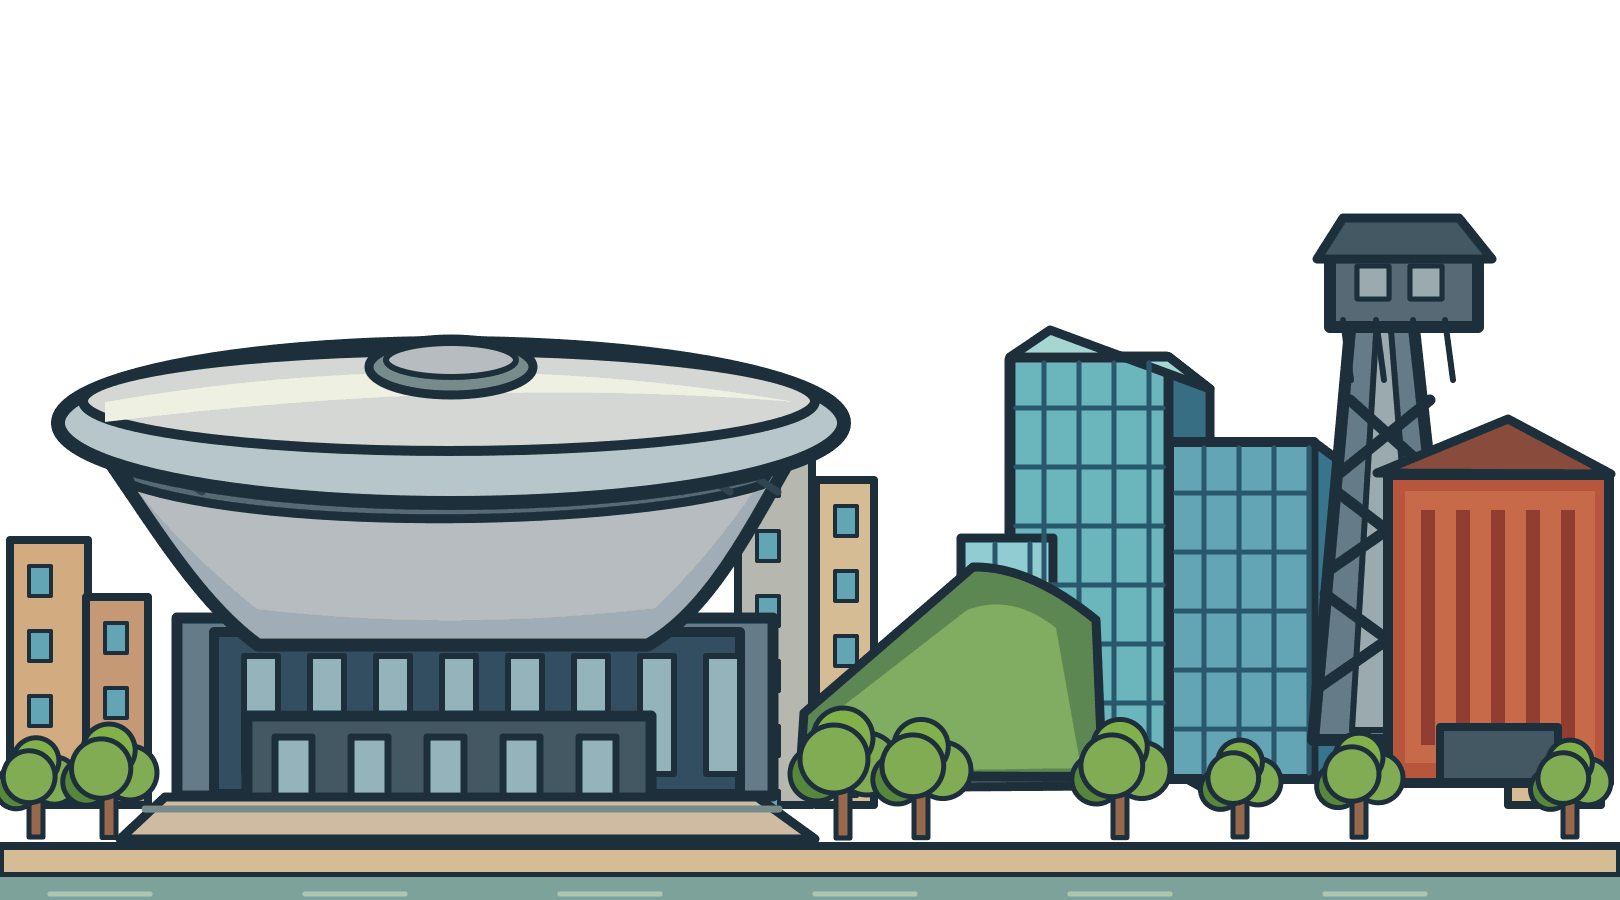
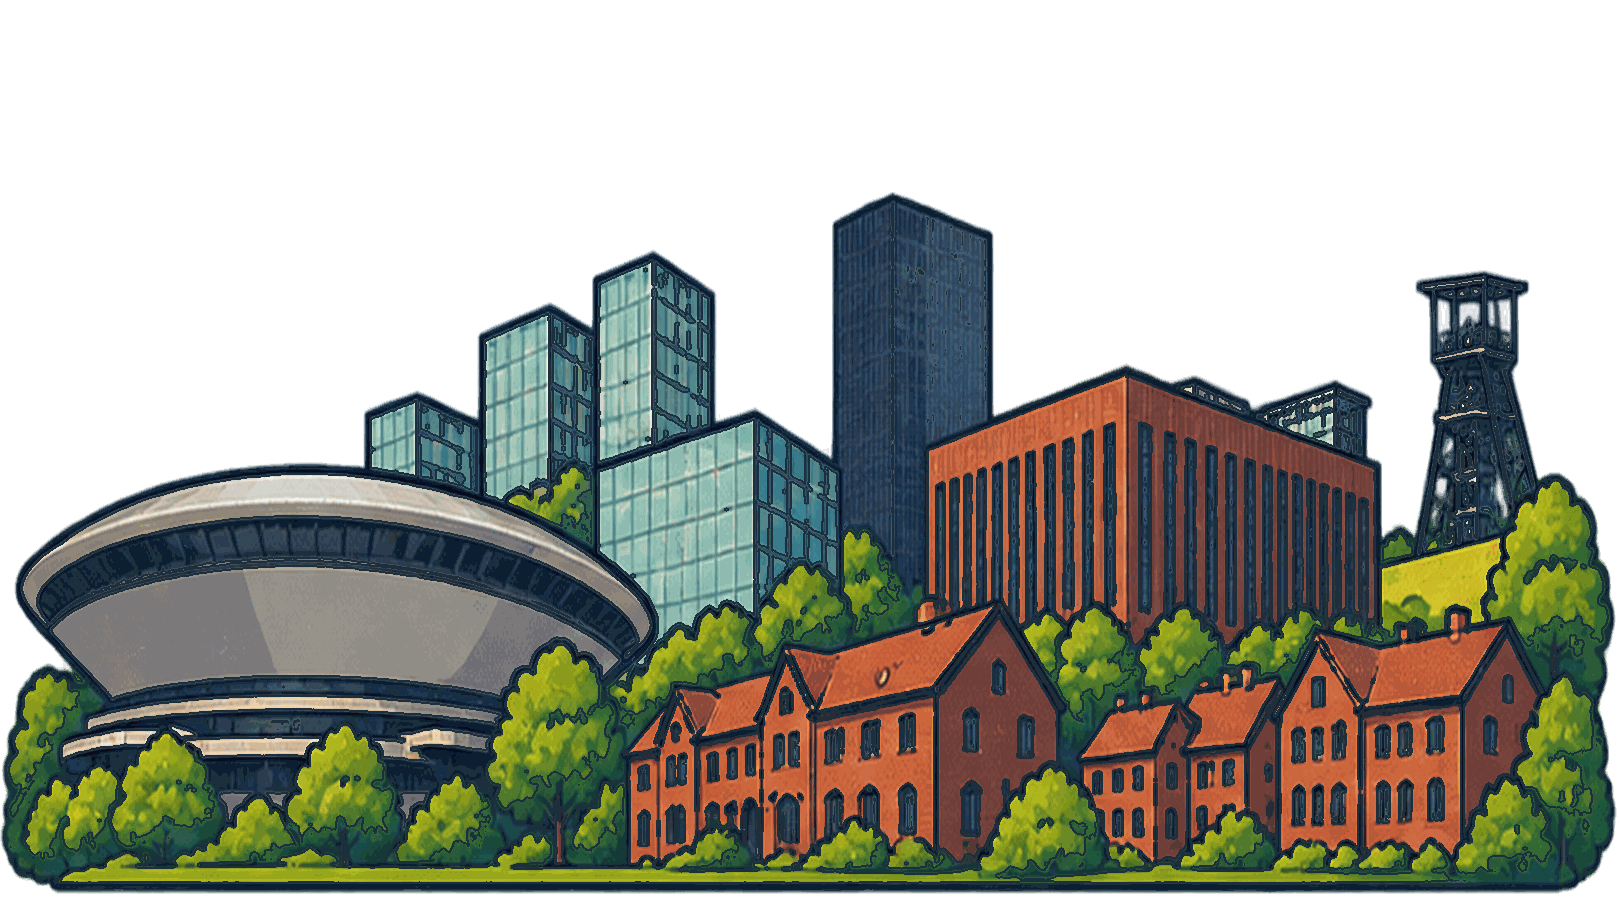
Runda 7, zlecenie 101: panoramy A+ (PNG 256 kolorów, ASSETS)
Claude-Session: https://claude.ai/code/session_01GfKv6HpRFHiwHaFvzS3hrY

diff --git a/public/assets/landmarks/ASSETS.md b/public/assets/landmarks/ASSETS.md
@@ -1671,3 +1671,67 @@ Dla przejrzystości zapisano opis źródłowy generacji (język angielski), z kt
 1. Czy po obejrzeniu w rendererze przy rozmiarze ok. 324×180 px interpolacja pozostaje akceptowalna, czy potrzebny jest nowy natywny rendering dla każdego miasta?
 2. Czy w przypadku Poniewieża priorytetem powinna być wierna sylwetka dwuwieżowego kościoła św. Piotra i Pawła wraz z Senvagė (kosztem miejskiego mostu)?
 3. Czy uproszczona rezydencja zamkowa Bauski jest wystarczająco rozpoznawalna dla mieszkańca, czy wymaga pokazania zburzonej części fortecy?
+
+
+<!-- Zlecenie 101 (runda 7) z ZIP-a GPT; PNG skwantyzowane do 256 kolorów przez koordynatora. -->
+
+# Zlecenie 101 — panoramy miast A+
+
+- **Data wygenerowania i obróbki:** 2026-10-31.
+- **Format wyjściowy:** PNG, 1620 × 900 px, RGBA, profil sRGB, przezroczyste niebo, linia gruntu/wody przy dolnej krawędzi.
+- **Autor/narzędzia:** generowanie wbudowanym generatorem obrazów ChatGPT (GPT Image); obróbka techniczna w Pythonie (Pillow i OpenCV): wyodrębnienie sylwetek z arkusza, usunięcie podpisów i tła, skalowanie do 1620 × 900, wzmocnienie ciemnogranatowych konturów, spłaszczenie barw, profil sRGB.
+- **Prawa/licencja:** oryginalne materiały generowane AI na zamówienie projektu. Użycie, także komercyjne, przez właściciela projektu na warunkach ChatGPT/OpenAI. Nie użyto ani nie włączono żadnej cudzej fotografii, tekstury ani logotypu. Ochrona prawnoautorska elementów tworzonych wyłącznie przez AI zależy od właściwego prawa — nie należy twierdzić, że jest automatycznie gwarantowana. Budynki są interpretacją graficzną, a nie odwzorowaniem fotografii.
+
+## Inwentarz
+
+| Plik | Miasto | Główne obiekty (od lewej) | Punkt widzenia / zgodność geograficzna | Narzędzie / źródło | Licencja / prawa |
+|---|---|---|---|---|---|
+| `mariampol.png` | Mariampol (Marijampolė, Litwa) | neobarokowa bazylika św. Michała Archanioła (dwie białe wieże); park i niska zabudowa; stylizowany zabytkowy dworzec kolejowy z ceglanym korpusem i wysoką wieżą | **Umowny montaż** centrum i dworca (nie jeden rzeczywisty punkt obserwacji); zaakcentowana zielona zabudowa miejska | ChatGPT GPT Image, scena indywidualna; Pillow/OpenCV | Wygenerowane w ChatGPT; możliwość użycia w projekcie, z zastrzeżeniami powyżej |
+| `oslo.png` | Oslo (Norwegia) | ratusz Oslo Rådhus z dwiema ceglanymi wieżami; twierdza Akershus na wzniesieniu; biały ukośny dach Opery nad wodą | **Widok poglądowy od Oslofjordu ku północy**; położenie zachód → wschód: ratusz – Akershus – opera. Budynki celowo zwiększone dla czytelności | ChatGPT GPT Image, wyodrębnione z atlasu czterech miast, odbicie poziome, Pillow/OpenCV | Wygenerowane w ChatGPT; architekturę Norwegii wolno obrazować (§ 31 åndsverkloven) |
+| `krakow.png` | Kraków (Polska) | Wawel na wzgórzu, zespół sukiennic z arkadami, bazylika Mariacka z nierównymi wieżami | **Kompozycja ikonograficzna**, nie autentyczny widok z jednej ulicy: Wawel i Rynek Główny nie mogą w rzeczywistym ujęciu mieć jednocześnie takich rozmiarów | ChatGPT GPT Image, wyodrębnione z atlasu czterech miast; Pillow/OpenCV | Wygenerowane w ChatGPT; zabytki i panorama miejska |
+| `katowice.png` | Katowice (Polska) | hala Spodek, przeszklone bryły nawiązujące do Muzeum Śląskiego, czerwonoceglasty NOSPR, familoki Nikiszowca; dodatkowo sylweta wieży szybowej | **Kolaż Strefy Kultury i Nikiszowca**, nie jeden rzeczywisty widok: Nikiszowiec jest oddzielony od centrum; przesadne gabaryty przeszkleń dla czytelności w grze | ChatGPT GPT Image, wyodrębnione z atlasu czterech miast; Pillow/OpenCV | Wygenerowane w ChatGPT; budynki stale dostępne publicznie: uwaga na art. 33 pkt 1 polskiej ustawy o prawie autorskim |
+
+**Podgląd:** `docs/art/podglady/panoramy-101.png` — arkusz 2 × 2, jasnoniebieskie tło, podpisy poza samymi panoramami.
+
+## Prompty źródłowe
+
+### Mariampol — osobna generacja
+
+> A panoramic flat-vector sticker illustration on a transparent background, featuring a straight-on townscape with bold dark outlines and no people or text: a white twin-spired baroque cathedral anchors the left, a tree-filled park with benches, lamps, paths, and low cream/blue buildings spans the center, and a red-brick historic civic building with a tall terracotta-roofed tower stands on the right. The foreground combines green lawns, shrubs, and a pale paved edge, while simplified solid colors, subtle shading, arched windows, decorative façades, greenery, and clean graphic shapes create a crisp cartoon-like skyline.
+
+W obróbce dopasowano budynek po prawej do roli **stylizowanego dworca** (charakterystyczny materiał i wieża), choć generator określał go jako budynek publiczny. To **interpretacja**, a nie precyzyjny rysunek elewacji dworca.
+
+### Kraków i Katowice — wspólna generacja arkusza
+
+> A playful flat-vector collage on a light-blue background presents four postcard-style city skylines in a neat two-by-two grid, each rendered with bold outlines, vivid colors, crisp shading, greenery, and a centered dark sans-serif city label beneath it. The scenes feature Mariampol’s neoclassical churches and civic tower, Oslo’s waterfront landmarks and fortress, Kraków’s castle, cloth hall, and twin-towered church, and Katowice’s Spodek, modern towers, industrial structures, and brick neighborhoods—without people or extra text.
+
+Obie miejskie sylwetki wyodrębniono z arkusza algorytmem komponentów spójnych. Podpisy nie zostały przeniesione do PNG gry.
+
+### Oslo — wspólna generacja arkusza, alternatywna kompozycja
+
+> A crisp flat-vector panorama sheet presents four transparent-background city skyline cutouts—Mariampol, Oslo, Kraków, and Katowice—in a two-by-two layout, using bold dark outlines, vibrant colors, simplified architecture, greenery, and water; each scene highlights its signature landmarks, from Mariampol’s churches and riverside townscape to Oslo’s opera house and fortress, Kraków’s basilica, Cloth Hall, and Wawel Castle, and Katowice’s Spodek, modern cultural buildings, industrial tower, and brick workers’ homes. A light-blue footer contains miniature previews labeled “Mariampol,” “Oslo,” “Kraków,” and “Katowice,” creating a polished collection of game-ready skyline stickers with no people.
+
+Użyto odbicia poziomego wyizolowanej sylwetki Oslo w celu poprawnej kolejności geograficznej: ratusz – Akershus – opera. Nie jest to kopia ani przeróbka zdjęcia.
+
+## Referencje faktograficzne (bez użycia plików zewnętrznych w grafice)
+
+- Mariampol: oficjalny portal turystyczny, [bazylika](https://marijampoletic.lt/en/places-to-visit/architectural-values/basilica-of-saint-michael-the-archangel-in-marijampole/), [dworzec](https://marijampoletic.lt/en/places-to-visit/architectural-values/railway-station/) i [lista architektury](https://marijampoletic.lt/lankytinos-vietos/architekturos-vertybes/).
+- Oslo: oficjalny [VisitOSLO — atrakcje](https://www.visitoslo.com/en/activities-and-attractions/10-suggestions/top-attractions/); norweska ustawa [åndsverkloven, § 31](https://lovdata.no/nav/lov/2018-06-15-40/kapI/%C2%A730) (zwłaszcza: *Byggverk kan fritt avbildes*).
+- Kraków: [Kraków — Stare Miasto](https://convention.krakow.pl/getHtml?dok_id=39903) i [Kościół Mariacki](https://www.krakow.pl/getHtml?dok_id=11175).
+- Katowice: [Strefa Kultury — Śląskie.travel](https://www.slaskie.travel/poi/509072/the-space-of-culture-in-katowice), [Strefa Kultury — Spodek](https://www.spodekkatowice.pl/pl/strefa-kultury/24/), [Nikiszowiec](https://www.metropolia.slaskie.travel/culturalheritage/1715/osiedle-nikiszowiec). Polska [ustawa o prawie autorskim — art. 33](https://eli.gov.pl/api/acts/DU/2021/1062/text.html) (przy komercyjnym wykorzystaniu ostateczna kwalifikacja prawna zależy od okoliczności).
+
+## Kontrola i integracja
+
+- [x] Cztery oddzielne obrazy `.png`, 1620 × 900, RGBA, sRGB, bez tła nieba.
+- [x] Kontur ciemny, wzmocniony na zewnętrznych i wewnętrznych krawędziach; czytelność po zmniejszeniu i skala najważniejszych budowli sprawdzone wizualnie w arkuszu.
+- [x] Brak tekstów i logotypów w obrazach produkcyjnych; podpisy tylko na arkuszu podglądowym.
+- [x] Arkusz podglądów i niniejsza dokumentacja.
+- [ ] Weryfikacja w **docelowym kadrze silnika gry** — do przeprowadzenia przez koordynatora.
+- [ ] Akceptacja **kolażu ikonograficznego** zamiast rzeczywistej perspektywy dla Mariampola, Krakowa i Katowic.
+- [ ] Po dołączeniu ZIP do repo uruchomić `npm ci && npm run typecheck && npm test && npm run build` oraz sprawdzić CI.
+
+## Uwagi do koordynatora
+
+1. Cel identyfikowalności zabytków powoduje konflikt z warunkiem jednego autentycznego punktu widzenia dla Krakowa i Katowic. W tej wersji świadomie pierwszeństwo mają rozpoznawalne sylwetki i proporcje w grze; **to decyzja do akceptacji**.
+2. Stylizowany dworzec w Mariampolu oraz przeszklone bryły Muzeum Śląskiego nie są dokumentalnie dokładnymi rekonstrukcjami. Zalecane sprawdzenie przez osobę znającą miasta.
+3. Przed publikacją gry zalecana jest kontrola zakresu swobody panoramy dla każdego obiektu chronionej współczesnej architektury w danej jurysdykcji. Norwegia dopuszcza obrazowanie budynków, a w Polsce art. 33 pkt 1 przewiduje odrębny wyjątek. Nie używano cudzych fotografii w produktowych PNG.
